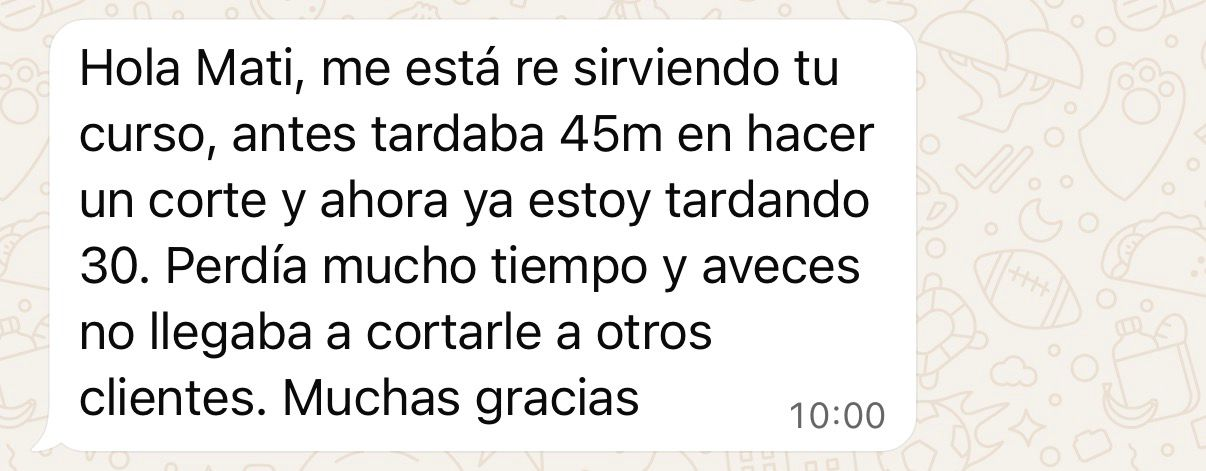
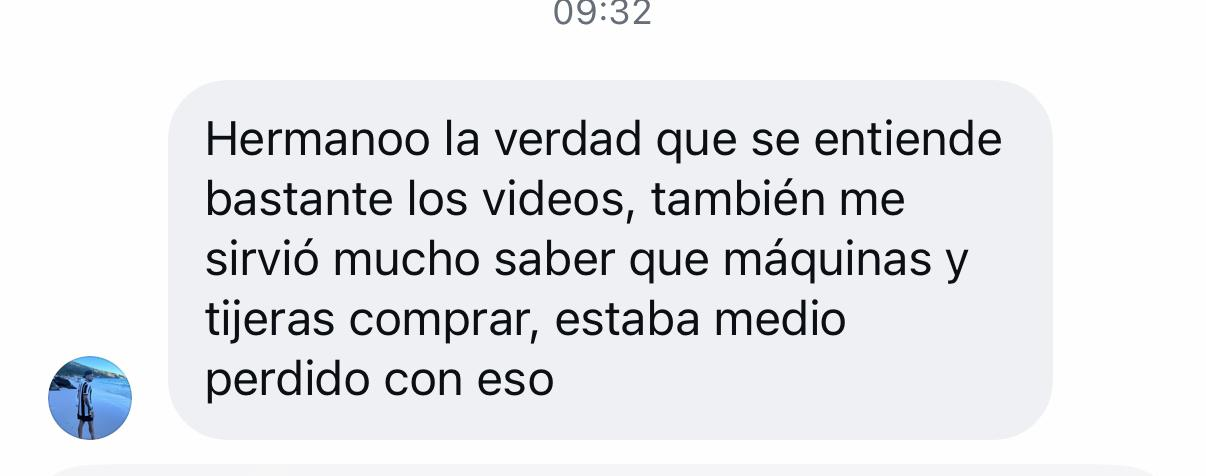
feat: actualizar testimonios y página de inicio

diff --git a/index.html b/index.html
@@ -147,14 +147,14 @@
   <section id="como-funciona" class="sec fu" style="background:var(--black);">
     <div class="sec-inner">
       <div class="sec-eye">Por qué funciona</div>
-      <h2 class="sec-title">Lo que nadie más<br>te enseña.</h2>
-      <p class="sec-sub">No son videos sueltos. Es un método para que cobrés tu trabajo en menos de un mes.</p>
+      <h2 class="sec-title">¿Qué vas a aprender?</h2>
+      <p class="sec-sub">No son videos sueltos. Es un método para que cobres tu trabajo en menos de un mes.</p>
       <div class="benefits-grid">
         <div class="benefit-card">
           <div class="benefit-num">— 01</div>
-          <div class="benefit-title">Técnica acelerada, no teoría</div>
-          <div class="benefit-body">Aprendés solo lo que el mercado pide hoy: degradés limpios, terminaciones y
-            velocidad profesional. Sin relleno.</div>
+          <div class="benefit-title">Cortes rápidos y prolijos</div>
+          <div class="benefit-body">Te enseño a hacer cortes profesionales en menos tiempo, sin perder calidad (mi
+            método para hacer 18 cortes por día).</div>
         </div>
         <div class="benefit-card">
           <div class="benefit-num">— 02</div>
@@ -249,21 +249,20 @@
     </div>
   </section>
 
-    <!-- ═══ TESTIMONIOS ═══ -->
-    <section class="testi-sec fu">
-      <div class="sec-inner">
-        <div class="sec-eye">Lo que dicen los alumnos</div>
-        <h2 class="sec-title">Resultados reales.</h2>
-        <div class="testi-images">
-          <img src="fotos/testimonioUno.jpeg" alt="Testimonio de cliente 1">
-          <img src="fotos/testimonioDos.jpeg" alt="Testimonio de cliente 2">
-          <img src="fotos/testimonioTres.jpeg" alt="Testimonio de cliente 3">
-          <img src="fotos/testimonioCuatro.jpeg" alt="Testimonio de cliente 4">
-        </div>
+  <!-- ═══ TESTIMONIOS ═══ -->
+  <section class="testi-sec fu">
+    <div class="sec-inner">
+      <div class="sec-eye">Lo que dicen los alumnos</div>
+      <h2 class="sec-title">Resultados reales.</h2>
+      <div class="testi-images">
+        <img src="fotos/testimonioUno.jpeg" alt="Testimonio de cliente 1">
+        <img src="fotos/testimonioDos.jpeg" alt="Testimonio de cliente 2">
+        <img src="fotos/testimonioTres.jpeg" alt="Testimonio de cliente 3">
       </div>
-    </section>
+    </div>
+  </section>
 
-    <!-- ═══ GALERÍA ═══ -->
+  <!-- ═══ GALERÍA ═══ -->
   <section class="gallery-sec fu">
     <div class="sec-inner">
       <div class="sec-eye">Galería de trabajo</div>
